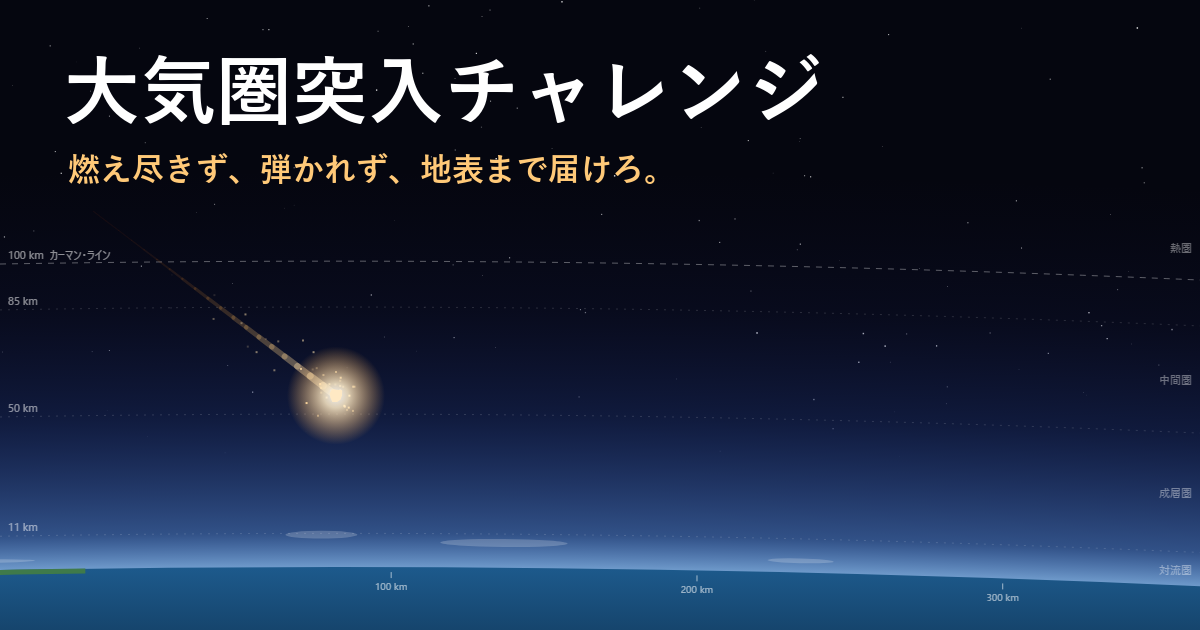
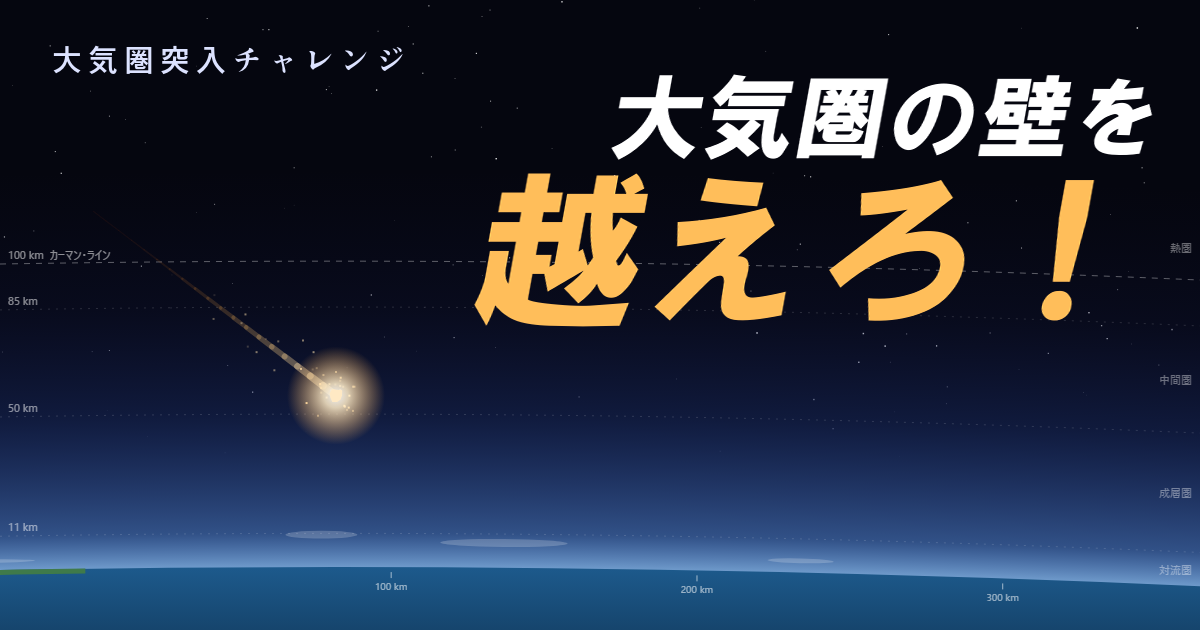
Redesign OGP image with new catch copy

Changed region(s): [[0.0308, 0.0603, 0.9558, 0.5429], [0.6783, 0.2714, 0.8017, 0.5127], [0.0617, 0.2413, 0.185, 0.3016]]

diff --git a/public/index.html b/public/index.html
@@ -11,7 +11,7 @@
 <meta property="og:title" content="大気圏突入チャレンジ">
 <meta property="og:description" content="入射角と速度を決めて隕石を大気圏に突入させよう。燃え尽きず、弾かれず、地表に届けば成功。破壊規模をTNT換算で表示します。">
 <meta property="og:url" content="https://saxgumi.github.io/taikiken/">
-<meta property="og:image" content="https://saxgumi.github.io/taikiken/ogp.png">
+<meta property="og:image" content="https://saxgumi.github.io/taikiken/ogp.png?v=2">
 <meta property="og:image:width" content="1200">
 <meta property="og:image:height" content="630">
 <meta property="og:image:alt" content="大気圏に突入して燃えながら落ちていく隕石">
